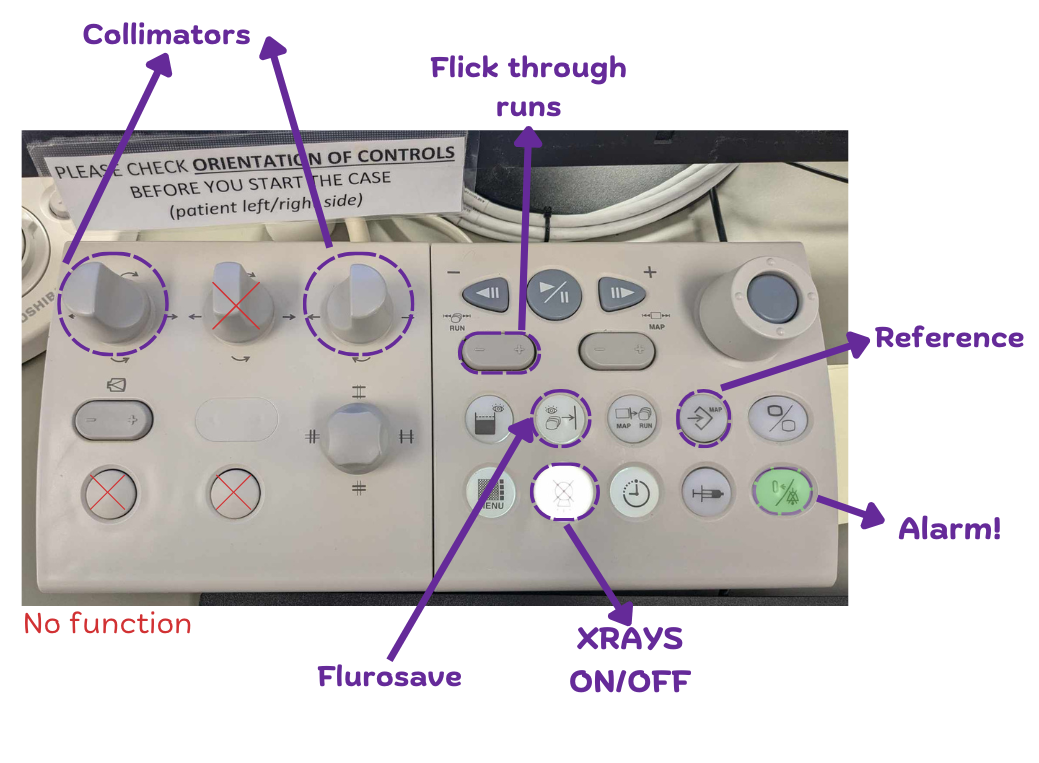
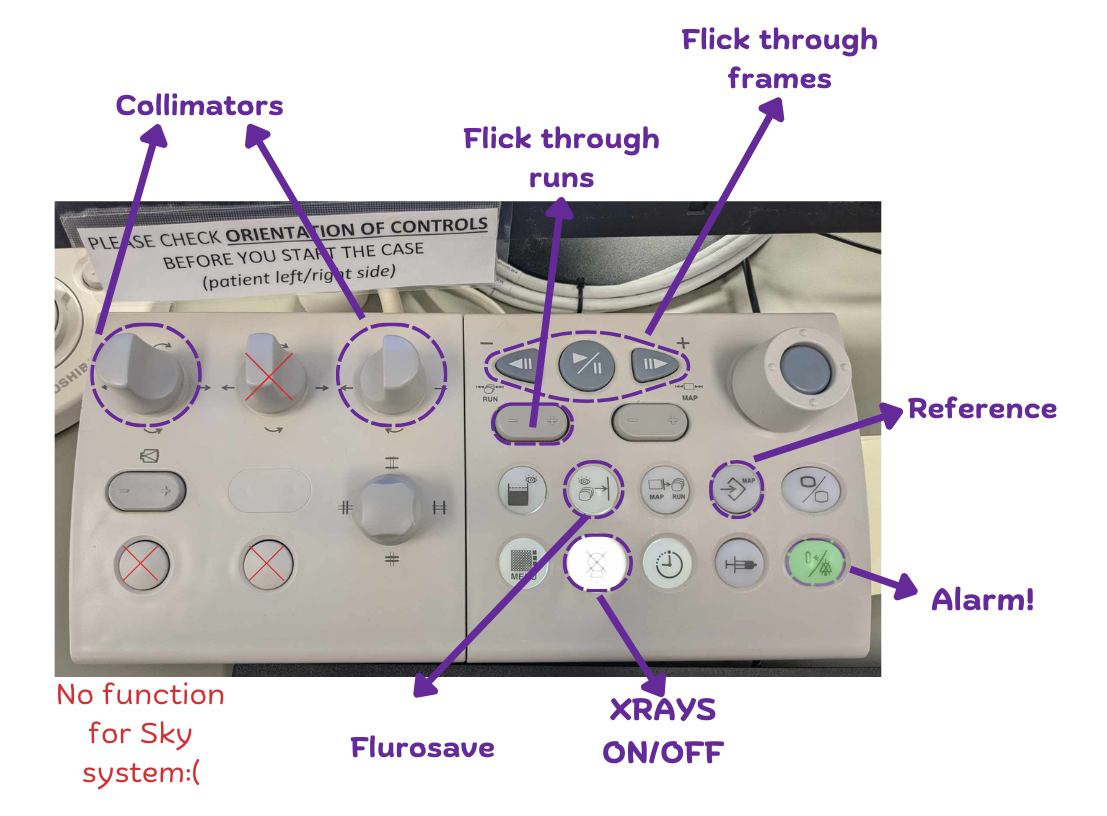
Added more canon info, updated navbar

diff --git a/equipment.html b/equipment.html
@@ -56,16 +56,28 @@
                             Equipment
                         </a>
                         <ul class="dropdown-menu">
-                            <li><a class="dropdown-item" href="equipment.html#siemens">Siemens/Syngovia Computer</a></li>
-                            <li><a class="dropdown-item" href="equipment.html#table">Control Module</a></li>
+                            <li><a class="dropdown-item" href="equipment.html#siemens">Siemens (labs 1-6)</a></li>
+                            <li class="submenu-item">
+                                <a class="dropdown-item" href="equipment.html#module-controls"><i>Controls</i></a>
+                            </li>
+                            <li class="submenu-item">
+                                <a class="dropdown-item" href="equipment.html#STEMI"><i>Troubleshooting</i></a>
+                            </li>
+                            <li class="submenu-item">
+                                <a class="dropdown-item" href="equipment.html#STEMI"><i>Sony Screen</i></a>
+                            </li>
                             <li><hr class="dropdown-divider"></li>
-                            <li><a class="dropdown-item" href="equipment.html#canon">Canon</a></li>
+                            <li><a class="dropdown-item" href="equipment.html#canon">Canon (lab 7)</a></li>
+                            <li class="submenu-item">
+                                <a class="dropdown-item" href="equipment.html#canon-controls"><i>Controls</i></a>
+                            </li>
+                            <li class="submenu-item">
+                                <a class="dropdown-item" href="equipment.html#STEMI"><i>Troubleshooting</i></a>
+                            </li>
                             <li><hr class="dropdown-divider"></li>
                             <li><a class="dropdown-item" href="equipment.html#injection">Contrast Injector</a></li>
                             <li><hr class="dropdown-divider"></li>
-                            <li><a class="dropdown-item" href="equipment.html#sony-screen">Sony Screen</a></li>
-                            <li><hr class="dropdown-divider"></li>
-                            <li><a class="dropdown-item" href="equipment.html#troubleshooting">Troubleshooting</a></li>
+                            <li><a class="dropdown-item" href="equipment.html#troubleshooting">General Troubleshooting</a></li>
                         </ul>
                      </li>
     
@@ -148,7 +160,7 @@
                     <li>Hold down the orientation button to change. Make sure this matches where the console is! (Otherwise, the machine will not move as expected.)</li>
                 </ul>
                 <div class="row mt-1 table_img d-flex justify-content-center">
-                    <div class="col-md-6">
+                    <div class="col-md-9">
                       <figure>
                         <img src="Images/eq1.png" alt="Table_controls" class="img-fluid img-eq1" />
                       </figure>
@@ -196,18 +208,18 @@
     <section id="screening" class="container mt-5">
         <div class="row">
           <div class="col-lg-8 mx-auto">
-            <h2 class="h2-screening">Screening (Fluoroscopy and Acquisitions)</h2>
+            <h3 class="h2-screening">Screening (Fluoroscopy and Acquisitions)</h3>
                   <figure> 
                     <img src="Images/eq5.png" alt="Table_controls" class="img-fluid mx auto img-eq5" />
                   </figure>
 
-                <h4>Fluoroscopy (left side)</h4>
+                <h4>Fluoroscopy (left/blue background)</h4>
                 <ul>
                     <li>Depending on cardiologist, may go down to 4p/s or 6p/s (lower p/s means the imaging will be less smooth, but save dose).</li>
                     <li>Ensure the bottom RDMP buttons are NOT selected (or else the reference image will overlay live image).</li>
                     <li>Default: stay on lowest setting (FL -).</li>
                 </ul>
-                <h4>Acquisitions (right side)</h4>
+                <h4>Acquisitions (right/purple background)</h4>
                 <ul>
                     <li>May increase to VHH 2 or Coro BMI+ for the spiderview in large pts > <b>100kgs</b> (going through dense area and at a steep angle).</li>
                     <li>Select the C-arm button to automatically display the reference image based on the tube position (only works with limited ~5 reference images so try not to save too many rubbish references!).</li>
@@ -215,7 +227,7 @@
                     <li>When dose is getting high: reduce by using less angle, collimating in, reducing OID or reducing frame rates.</li>
                 </ul>
                 <div class="row mt-1 table_img d-flex justify-content-center">
-                    <div class="col-md-6">
+                    <div class="col-md-9">
                       <figure>
                         <img src="Images/eq6.png" alt="Table_controls" class="img-fluid img-eq6" />
                       </figure>
@@ -224,29 +236,91 @@
             </div>
         </div>
     </section>
-<!----------------------- Canon ------------------------>
+<!----------------------- CANON ------------------------>
     <section id="canon" class="container mt-5">
         <div class="row">
           <div class="col-lg-8 mx-auto">
-            <h2 class="h2-canon" >Canon</h2>
+            <h2 class="h2-canon" >Canon Alphenix Sky</h2>
                 <ul>
                     <li> Mostly set up for PPMs - controls on left side. </li>
-                    <li> Table and tube can only be moved from inside the room! </li>
-                    <li> When starting an examination, make sure to also start the dose calculation screen for PSD! </li>
+                    <li> Table and tube can only be moved from inside the room! Either using buttons on the back of the C-arm or the control modules. </li>
+                    <li> When starting an examination, make sure to also start the dose calculation screen for PSD - check correct weight range is selected as well! </li>
                     <li> Switch between screens using ALT + space </li>
                     <li><strong>Don't finish/close pt until you record the doses!</strong> </li>
-
-                    <div class="row mt-1 table_img d-flex justify-content-center">
-                        <div class="col-md-6">
-                          <figure>
-                            <img src="Images/eq7.png" alt="canon_controls" class="img-fluid img-eq7" />
-                          </figure>
-                        </div>
                 </ul>
             </div>
         </div>
     </section>
-<!--------------- Injection ----------------------------->
+<!----------------------- Our controls ------------------------>
+    <section id="table" class="container mt-5">
+        <div class="row">
+          <div class="col-lg-8 mx-auto">
+              <h3 class="">Our Controls</h3>
+                <ul>
+                    <li>Hold both tilt buttons to re-zero back to 0 tilt.</li>
+                    <li>Hold down the orientation button to change. Make sure this matches where the console is! (Otherwise, the machine will not move as expected.)</li>
+                </ul>
+                <div class="row mt-1 table_img d-flex justify-content-center">
+                    <div class="col-md-9">
+                      <figure>
+                        <img src="Images/eq7.png" alt="Table_controls" class="img-fluid img-eq1" />
+                      </figure>
+                </div>
+            </div>
+        </div>
+    </section>
+<!----------------- Canon inside room controls ------------->
+    <section id="table" class="container mt-5">
+        <div class="row">
+          <div class="col-lg-8 mx-auto">
+              <h3 class="">Inside room controls</h3>
+                <ul>
+                    <li>Same as ours with added:
+                        <ul>
+                            <li>"Mechanical Operation Section" which controls table and tube</li>
+                            <li>"Playback/Operation Section" which enables auto-positions + changing orientation as below! </li>
+                        </ul>
+                </ul>
+                <div class="row mt-1 table_img d-flex justify-content-center">
+                    <div class="col-md-9" >
+                      <figure>
+                        <img src="Images/eq8.png" alt="Table_controls" class="img-fluid img-eq" />
+                      </figure>
+                </div>
+            </div>
+        </div>
+    </section>
+
+
+<!-------Ccanon troubleshi ------------------>
+<section id="table" class="container mt-5">
+    <div class="row">
+      <div class="col-lg-8 mx-auto">
+          <h3 class="">Canon Troubleshooting</h3>
+          <ul>
+            <li>Emergency stop button accidentally pressed: all movement is stopped EXCEPT longitudinal and lateral movement. </li>
+            <li>To reset Hardware errors (H-errors) 
+                <ol>
+                    <li>Press the Emergency Stop Button</li>
+                    <li>Wait for 5 seconds</li>
+                    <li>Press the Power Reset Button located near the table base. All mechanical functions will be reset. </li>
+                </ol>
+            </li>
+        </ul>
+            <div class="row mt-1 table_img d-flex justify-content-center">
+                <div class="col-md-9" >
+                  <figure>
+                    <img src="Images/eq8.png" alt="Table_controls" class="img-fluid img-eq" />
+                  </figure>
+            </div>
+        </div>
+    </div>
+</section>
+
+
+
+
+<!--------------- INJECTION ----------------->
 <section id="injection" class="container mt-5">
     <div class="row">
         <div class="col-lg-8 mx-auto">
@@ -265,7 +339,7 @@
         </div>
     </div>
 
-    <!-- Responsive YouTube Video -->
+    <!-- YouTube Video -->
     <div class="row mt-4">
         <div class="col-lg-8 mx-auto">
             <div class="video-container">
@@ -277,7 +351,7 @@
     </div>
 </section>
 
-<!--------------------- Sony-screen ------------------------>
+<!--------------------- SONY-SCREEN ------------------------>
     <section id="sony-screen" class="container mt-5">
         <div class="row">
           <div class="col-lg-8 mx-auto">
@@ -292,7 +366,7 @@
             </div>
         </div>
     </section>
-<!----------------- Troubleshooting --------------------------->
+<!----------------- GENERAL TROUBLESHI ------------------------->
     <section id="troubleshooting" class="container mt-5">
         <div class="row">
           <div class="col-lg-8 mx-auto">

diff --git a/index.html b/index.html
@@ -308,7 +308,7 @@
                         
                         
                         <h4>Equipment</h4>
-                        <p>Siemens Artis Q is the fluoro system in labs 1-6, with 2 being the only bi-plane system. Lab 7 is Canon, almost exclusively used for PPMs. Other equipment will be taught during training.</p>
+                        <p>Siemens Artis Q is the fluoro system in labs 1-6, with 2 being the only bi-plane system. Lab 7 is Canon Alphenix Sky, almost exclusively used for PPMs. Other equipment will be taught during training.</p>
                     </div>
                     <div class="col-md-4 topic" id="procedures">
                         <svg xmlns="http://www.w3.org/2000/svg" height="24px" viewBox="0 -960 960 960" width="24px">

diff --git a/homepage.js b/homepage.js
@@ -62,6 +62,7 @@ const imagesToChange = {
     "Images/eq5.png": "Images/eq5dark.png",
     "Images/eq6.png": "Images/eq6dark.png",
     "Images/eq7.png": "Images/eq7dark.png",
+    "Images/eq8.png": "Images/eq8dark.png",
     "Images/catheter_02.png": "Images/catheter_02dark.png",
     "Images/heartspin2.gif":"Images/heartspin2dark.gif",
 

diff --git a/CSS/anatomy.css b/CSS/anatomy.css
@@ -47,6 +47,7 @@ iframe {
     display: block; /* Removes any extra spacing */
 }
 
+/* for mobile */
 @media (max-width: 768px) {
 
 .scroll-container {

diff --git a/CSS/equipment.css b/CSS/equipment.css
@@ -82,3 +82,4 @@ body.dark-mode .h2-canon {
     width: 100%;
     height: 100%;
 }
+
